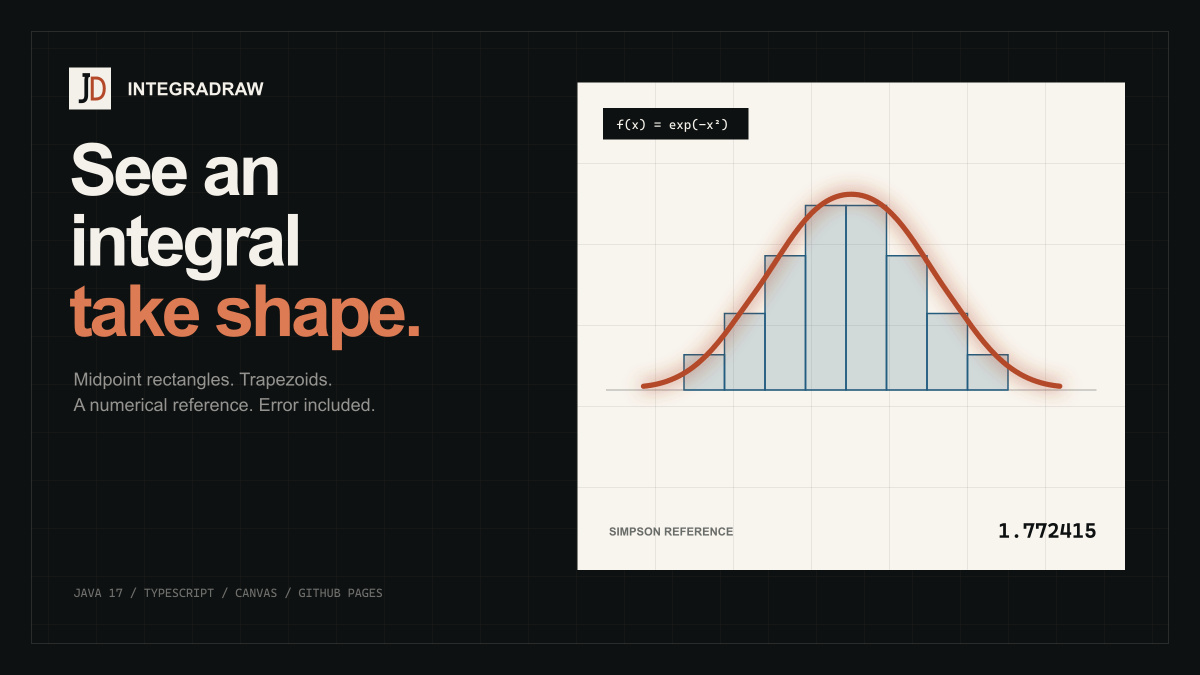
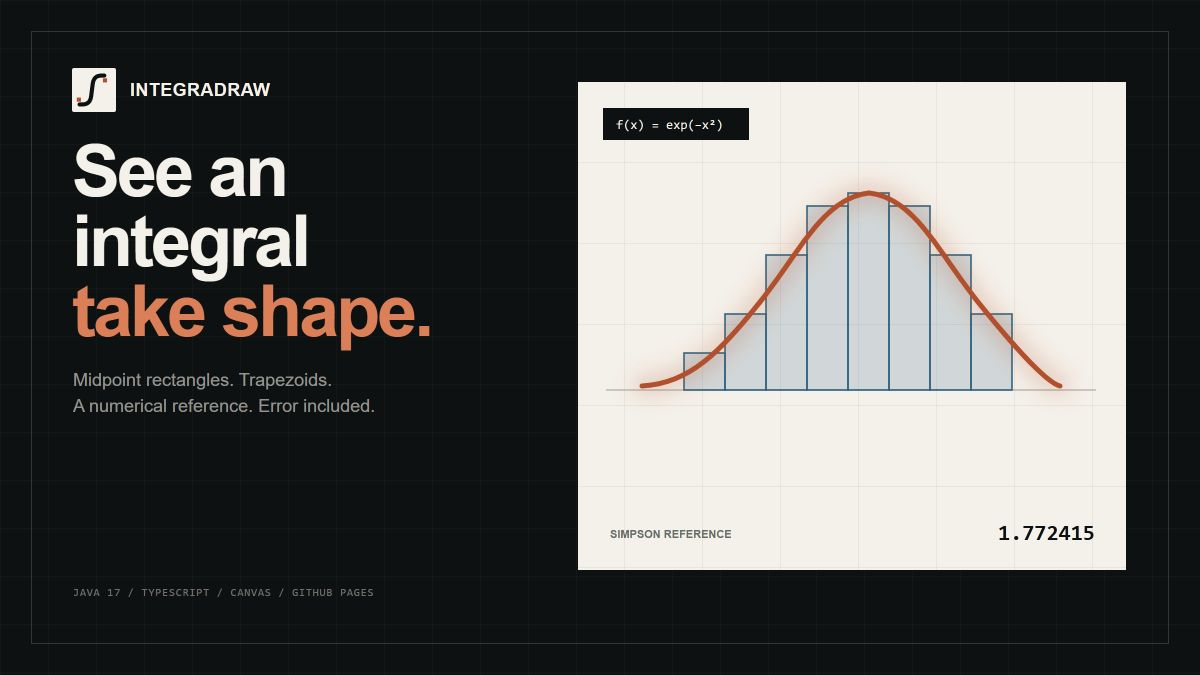
Refine integral identity and mobile touch targets
Replace the legacy initials with a cohesive integral mark, refresh the social artwork, and ensure visible controls meet mobile touch-target guidance.\n\nValidated with the complete web and Java suites, multi-viewport checks, release-readiness gates, and an independent review.

diff --git a/web/src/styles.css b/web/src/styles.css
@@ -64,6 +64,9 @@ a {
   z-index: 100;
   top: 12px;
   left: 12px;
+  display: inline-flex;
+  align-items: center;
+  min-height: 44px;
   padding: 12px 16px;
   color: var(--paper);
   background: var(--ink);
@@ -94,6 +97,7 @@ a {
   display: inline-flex;
   gap: 12px;
   align-items: center;
+  min-height: 44px;
   width: fit-content;
   font-size: 0.92rem;
   font-weight: 760;
@@ -114,6 +118,9 @@ a {
 .site-header nav a,
 .header-link {
   position: relative;
+  display: inline-flex;
+  align-items: center;
+  min-height: 44px;
   color: rgb(251 248 241 / 72%);
   font-size: 0.78rem;
   font-weight: 650;
@@ -811,6 +818,9 @@ footer p {
 }
 
 footer > a:last-child {
+  display: inline-flex;
+  align-items: center;
+  min-height: 44px;
   justify-self: end;
   font-size: 0.8rem;
   font-weight: 700;
@@ -906,8 +916,18 @@ footer > a:last-child {
     border-bottom: 1px solid var(--ink);
   }
 
+  .preset {
+    min-height: 44px;
+    padding-inline: 12px;
+  }
+
   .visualizer {
     padding: 12px;
+  }
+
+  .zoom-controls button {
+    min-width: 44px;
+    height: 44px;
   }
 
   .results {
@@ -1037,7 +1057,12 @@ footer > a:last-child {
   }
 
   .plot-toolbar {
+    flex-direction: column;
     align-items: flex-start;
+  }
+
+  .zoom-controls {
+    align-self: flex-start;
   }
 
   .plot-legend {
